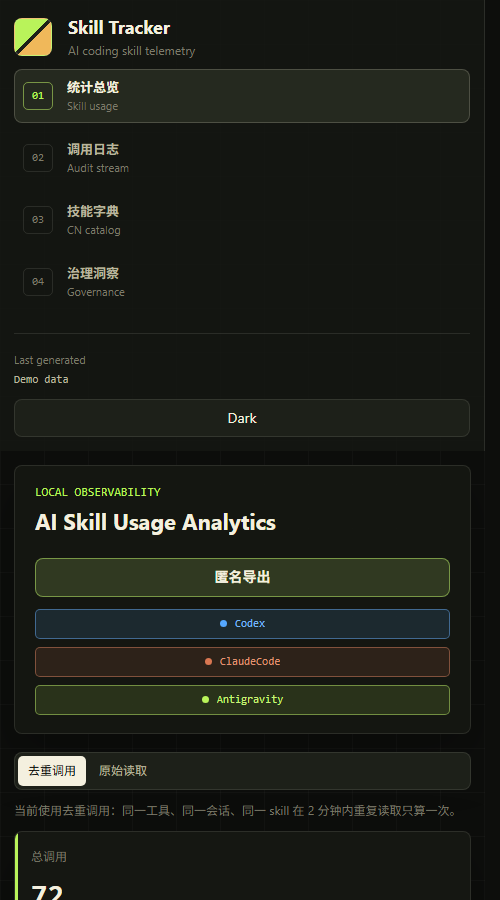
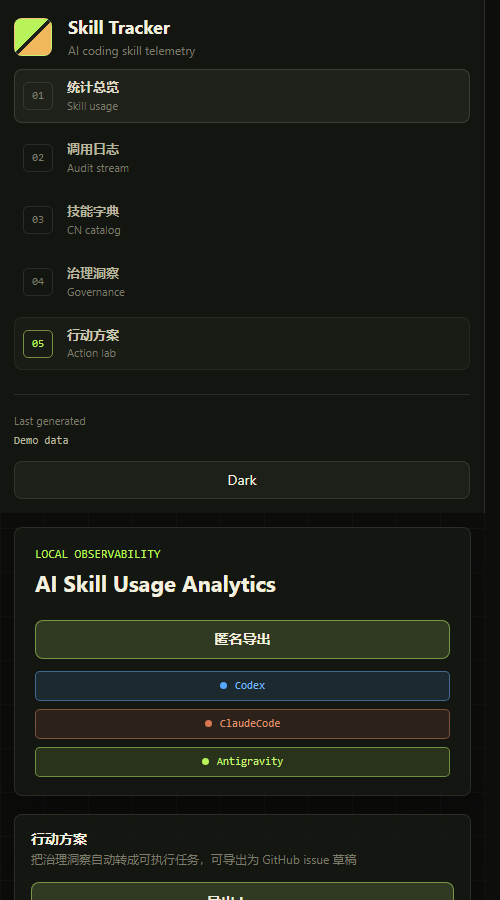
Add governance action lab

diff --git a/dashboard/index.html b/dashboard/index.html
@@ -1180,6 +1180,80 @@ tbody tr.data-row.expanded {
   border-color: color-mix(in srgb, var(--accent-3) 34%, var(--border));
 }
 
+.action-toolbar {
+  display: flex;
+  gap: 10px;
+  align-items: center;
+  justify-content: flex-end;
+  flex-wrap: wrap;
+}
+
+.action-card {
+  display: grid;
+  gap: 10px;
+  border: 1px solid var(--border);
+  border-radius: var(--radius);
+  background: color-mix(in srgb, var(--surface-2) 72%, transparent);
+  padding: 14px;
+}
+
+.action-card.p0 {
+  border-color: color-mix(in srgb, var(--danger) 54%, var(--border));
+}
+
+.action-card.p1 {
+  border-color: color-mix(in srgb, var(--accent-2) 48%, var(--border));
+}
+
+.action-card.p2 {
+  border-color: color-mix(in srgb, var(--accent-3) 38%, var(--border));
+}
+
+.action-head {
+  display: grid;
+  grid-template-columns: auto minmax(0, 1fr) auto;
+  gap: 10px;
+  align-items: center;
+}
+
+.priority-badge {
+  min-width: 38px;
+  min-height: 28px;
+  display: inline-grid;
+  place-items: center;
+  border-radius: var(--radius-sm);
+  border: 1px solid var(--border);
+  background: var(--surface);
+  color: var(--text);
+  font-family: var(--font-mono);
+  font-weight: 800;
+  font-size: 12px;
+}
+
+.action-title {
+  min-width: 0;
+  color: var(--text);
+  font-size: 14px;
+  font-weight: 750;
+}
+
+.action-kind {
+  color: var(--muted);
+  font-size: 11px;
+}
+
+.action-body {
+  display: grid;
+  gap: 7px;
+  color: var(--muted);
+  font-size: 12px;
+  line-height: 1.6;
+}
+
+.action-body strong {
+  color: var(--text);
+}
+
 .mini-track {
   width: 100%;
   height: 8px;
@@ -1503,8 +1577,13 @@ tbody tr.data-row.expanded {
   }
 
   .chain-row,
-  .health-row {
+  .health-row,
+  .action-head {
     grid-template-columns: 1fr;
+  }
+
+  .action-toolbar {
+    justify-content: stretch;
   }
 
   .catalog-summary {
@@ -1565,6 +1644,10 @@ tbody tr.data-row.expanded {
         <button type="button" data-view-button="governance">
           <span class="nav-index">04</span>
           <span class="nav-label"><strong>治理洞察</strong><span>Governance</span></span>
+        </button>
+        <button type="button" data-view-button="actions">
+          <span class="nav-index">05</span>
+          <span class="nav-label"><strong>行动方案</strong><span>Action lab</span></span>
         </button>
       </nav>
     </div>
@@ -1778,6 +1861,26 @@ tbody tr.data-row.expanded {
             <div class="insight-list" id="conflictList"></div>
           </div>
         </section>
+      </div>
+    </section>
+
+    <section class="view-panel" id="view-actions" aria-labelledby="actionsHeading">
+      <div class="section" style="margin-top: 18px;">
+        <div class="section-head">
+          <div class="section-title">
+            <h3 id="actionsHeading">行动方案</h3>
+            <p>把治理洞察自动转成可执行任务，可导出为 GitHub issue 草稿</p>
+          </div>
+          <div class="action-toolbar">
+            <button type="button" class="action-button" id="exportActionIssues">导出 Issues</button>
+            <button type="button" class="action-button" id="exportActionJson">导出 JSON</button>
+          </div>
+        </div>
+
+        <div class="catalog-summary" id="actionSummary"></div>
+        <div class="section-body">
+          <div class="insight-list" id="actionList"></div>
+        </div>
       </div>
     </section>
   </main>
@@ -1999,6 +2102,10 @@ tbody tr.data-row.expanded {
     healthList: document.getElementById("healthList"),
     duplicateList: document.getElementById("duplicateList"),
     conflictList: document.getElementById("conflictList"),
+    actionSummary: document.getElementById("actionSummary"),
+    actionList: document.getElementById("actionList"),
+    exportActionIssues: document.getElementById("exportActionIssues"),
+    exportActionJson: document.getElementById("exportActionJson"),
     modeNote: document.getElementById("modeNote"),
     skillSearch: document.getElementById("skillSearch"),
     skillTableBody: document.getElementById("skillTableBody"),
@@ -2030,6 +2137,7 @@ tbody tr.data-row.expanded {
   renderLogs(true);
   renderCatalog(true);
   renderGovernance();
+  renderActionLab();
 
   function bindEvents() {
     document.querySelectorAll("[data-view-button]").forEach(function (button) {
@@ -2102,10 +2210,14 @@ tbody tr.data-row.expanded {
       renderCatalogSummary(filteredCatalogRows().length);
       renderMetrics();
       renderSkills(false);
+      renderGovernance();
+      renderActionLab();
     });
 
     els.exportCatalog.addEventListener("click", exportCatalogJson);
     els.exportAnonymous.addEventListener("click", exportAnonymousReport);
+    els.exportActionIssues.addEventListener("click", exportActionIssues);
+    els.exportActionJson.addEventListener("click", exportActionJson);
 
     els.skillTableBody.addEventListener("click", function (event) {
       var button = event.target.closest("[data-expand-skill]");
@@ -2349,6 +2461,167 @@ tbody tr.data-row.expanded {
         + '<div class="risk-meta">' + escapeHtml(row.detail) + '</div>'
         + '</div>';
     }).join("");
+  }
+
+  function renderActionLab() {
+    var actions = buildActionItems(buildGovernanceModel());
+    renderActionSummary(actions);
+    if (!actions.length) {
+      els.actionList.innerHTML = '<div class="empty-state">暂无需要处理的治理任务</div>';
+      return;
+    }
+    els.actionList.innerHTML = actions.slice(0, 24).map(function (action) {
+      return '<article class="action-card ' + escapeAttr(action.priority.toLowerCase()) + '">'
+        + '<div class="action-head">'
+        + '<span class="priority-badge">' + escapeHtml(action.priority) + '</span>'
+        + '<div class="action-title">' + escapeHtml(action.title) + '</div>'
+        + '<span class="action-kind">' + escapeHtml(action.kind) + '</span>'
+        + '</div>'
+        + '<div class="action-body">'
+        + '<div><strong>证据：</strong>' + escapeHtml(action.evidence) + '</div>'
+        + '<div><strong>建议：</strong>' + escapeHtml(action.recommendation) + '</div>'
+        + '<div><strong>验收：</strong>' + escapeHtml(action.acceptance) + '</div>'
+        + '</div>'
+        + '</article>';
+    }).join("");
+  }
+
+  function renderActionSummary(actions) {
+    var counts = { P0: 0, P1: 0, P2: 0 };
+    actions.forEach(function (action) {
+      counts[action.priority] = (counts[action.priority] || 0) + 1;
+    });
+    var cards = [
+      { label: "行动任务", value: actions.length },
+      { label: "P0 阻断", value: counts.P0 },
+      { label: "P1 高优先", value: counts.P1 },
+      { label: "P2 改进项", value: counts.P2 }
+    ];
+    els.actionSummary.innerHTML = cards.map(function (card) {
+      return '<div class="catalog-stat"><span>' + escapeHtml(card.label) + '</span><strong>' + formatNum(card.value) + '</strong></div>';
+    }).join("");
+  }
+
+  function buildActionItems(model) {
+    var actions = [];
+
+    model.conflicts.forEach(function (conflict) {
+      actions.push({
+        key: "conflict:" + conflict.label + ":" + conflict.title,
+        priority: conflict.severity === "high" ? "P0" : conflict.severity === "medium" ? "P1" : "P2",
+        kind: "治理风险",
+        title: "处理 " + conflict.label + "：" + conflict.title,
+        evidence: conflict.detail,
+        recommendation: conflict.label === "功能重叠"
+          ? "比较两个 skill 的触发词和中文说明，决定合并、改名或明确边界。"
+          : "检查相关 skill 的触发条件、读取频率和会话上下文，减少重复加载或流程冲突。",
+        acceptance: "风险项从治理洞察中消失，或降级为 P2 以下并有明确说明。"
+      });
+    });
+
+    model.duplicates.slice(0, 10).forEach(function (pair) {
+      actions.push({
+        key: "duplicate:" + pair.a + ":" + pair.b,
+        priority: pair.score >= 0.34 ? "P0" : "P1",
+        kind: "重复治理",
+        title: "确认是否合并相似 skill：" + pair.a + " / " + pair.b,
+        evidence: "指纹相似度 " + Math.round(pair.score * 100) + "%，分类为 " + pair.category + "。",
+        recommendation: "保留更清晰的 skill，另一个改名、删除或收窄触发词；同时更新中文说明。",
+        acceptance: "相似度下降，或 README/skill_catalog 中记录两者明确分工。"
+      });
+    });
+
+    model.health.filter(function (row) { return row.score < 45; }).slice(0, 12).forEach(function (row) {
+      actions.push({
+        key: "health:" + row.skill,
+        priority: row.score < 35 ? "P0" : "P1",
+        kind: "健康修复",
+        title: "提升低健康 skill：" + row.skill,
+        evidence: "健康分 " + row.score + "；" + (row.reasons.join("；") || "缺少可解释信号") + "。",
+        recommendation: "补齐中文说明、触发词、来源路径，或删除长期未调用且功能重复的 skill。",
+        acceptance: "健康分提升到 70 以上，或该 skill 被归档/合并。"
+      });
+    });
+
+    catalogRows.filter(function (row) { return !isTranslated(row); }).slice(0, 12).forEach(function (row) {
+      actions.push({
+        key: "translation:" + row.skill,
+        priority: row.dedupCount > 0 ? "P1" : "P2",
+        kind: "中文本地化",
+        title: "补全中文功能说明：" + row.skill,
+        evidence: "该 skill 当前没有中文说明，调用次数为 " + formatNum(row.dedupCount) + "。",
+        recommendation: "在技能字典页填写一句面向用户的中文功能说明，并导出 skill_catalog.json。",
+        acceptance: "中文覆盖率达到 100%，搜索可用中文命中该 skill。"
+      });
+    });
+
+    buildSkillTransitions().slice(0, 5).forEach(function (flow) {
+      if (flow.count < 3) return;
+      actions.push({
+        key: "workflow:" + flow.from + ":" + flow.to,
+        priority: flow.sessionCount >= 10 ? "P1" : "P2",
+        kind: "工作流固化",
+        title: "固化高频 skill 链路：" + flow.from + " → " + flow.to,
+        evidence: "该链路出现 " + formatNum(flow.count) + " 次，覆盖 " + formatNum(flow.sessionCount) + " 个会话。",
+        recommendation: "在 README 或 catalog 中记录该链路的适用场景，后续可做 workflow preset。",
+        acceptance: "用户能从文档或 UI 直接理解这条链路何时使用。"
+      });
+    });
+
+    return dedupeActions(actions).sort(function (a, b) {
+      return priorityRank(a.priority) - priorityRank(b.priority) || a.title.localeCompare(b.title);
+    });
+  }
+
+  function dedupeActions(actions) {
+    var seen = {};
+    return actions.filter(function (action) {
+      if (seen[action.key]) return false;
+      seen[action.key] = true;
+      return true;
+    });
+  }
+
+  function exportActionIssues() {
+    var actions = buildActionItems(buildGovernanceModel());
+    var markdown = buildIssuesMarkdown(actions);
+    downloadText("skill-tracker-governance-issues.md", markdown, "text/markdown;charset=utf-8");
+  }
+
+  function exportActionJson() {
+    var actions = buildActionItems(buildGovernanceModel());
+    downloadJson("skill-tracker-governance-actions.json", {
+      schema: "skill-tracker-governance-actions@1",
+      generated_at: new Date().toISOString(),
+      source_generated_at: window.GENERATED_AT || null,
+      actions: actions
+    });
+  }
+
+  function buildIssuesMarkdown(actions) {
+    var lines = [
+      "# Skill Tracker Governance Issues",
+      "",
+      "Generated at: " + new Date().toISOString(),
+      "Source data: " + (window.GENERATED_AT || "--"),
+      "",
+      "This file is generated from local telemetry. Review before publishing.",
+      ""
+    ];
+    actions.forEach(function (action, index) {
+      lines.push("## " + (index + 1) + ". [" + action.priority + "] " + action.title);
+      lines.push("");
+      lines.push("- Type: " + action.kind);
+      lines.push("- Evidence: " + action.evidence);
+      lines.push("- Recommendation: " + action.recommendation);
+      lines.push("- Acceptance: " + action.acceptance);
+      lines.push("");
+    });
+    return lines.join("\n") + "\n";
+  }
+
+  function priorityRank(priority) {
+    return priority === "P0" ? 0 : priority === "P1" ? 1 : 2;
   }
 
   function buildSkillTransitions() {
@@ -2715,7 +2988,11 @@ tbody tr.data-row.expanded {
 
   function downloadJson(filename, payload) {
     var json = JSON.stringify(payload, null, 2) + "\n";
-    var blob = new Blob([json], { type: "application/json;charset=utf-8" });
+    downloadText(filename, json, "application/json;charset=utf-8");
+  }
+
+  function downloadText(filename, text, type) {
+    var blob = new Blob([text], { type: type || "text/plain;charset=utf-8" });
     var url = URL.createObjectURL(blob);
     var link = document.createElement("a");
     link.href = url;